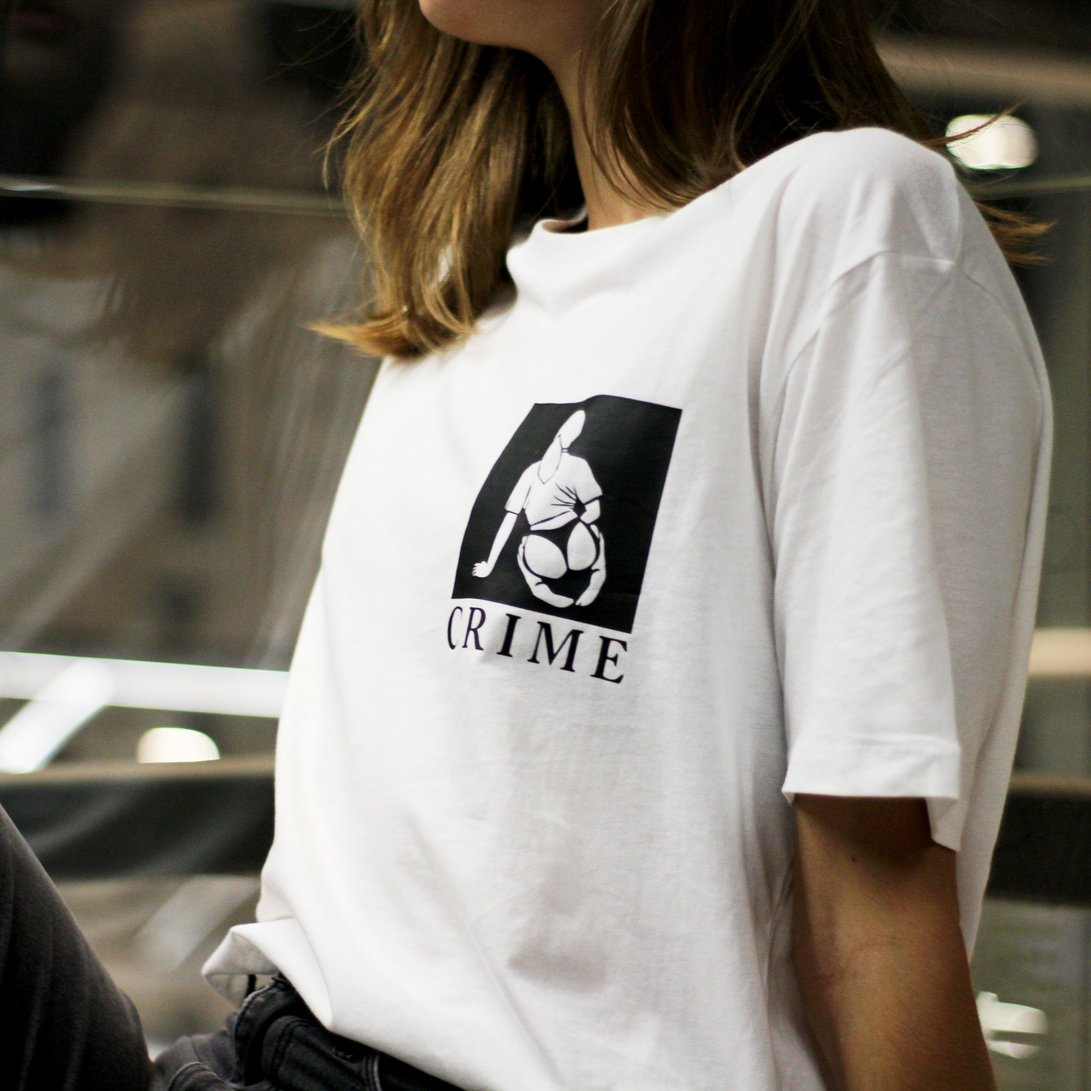
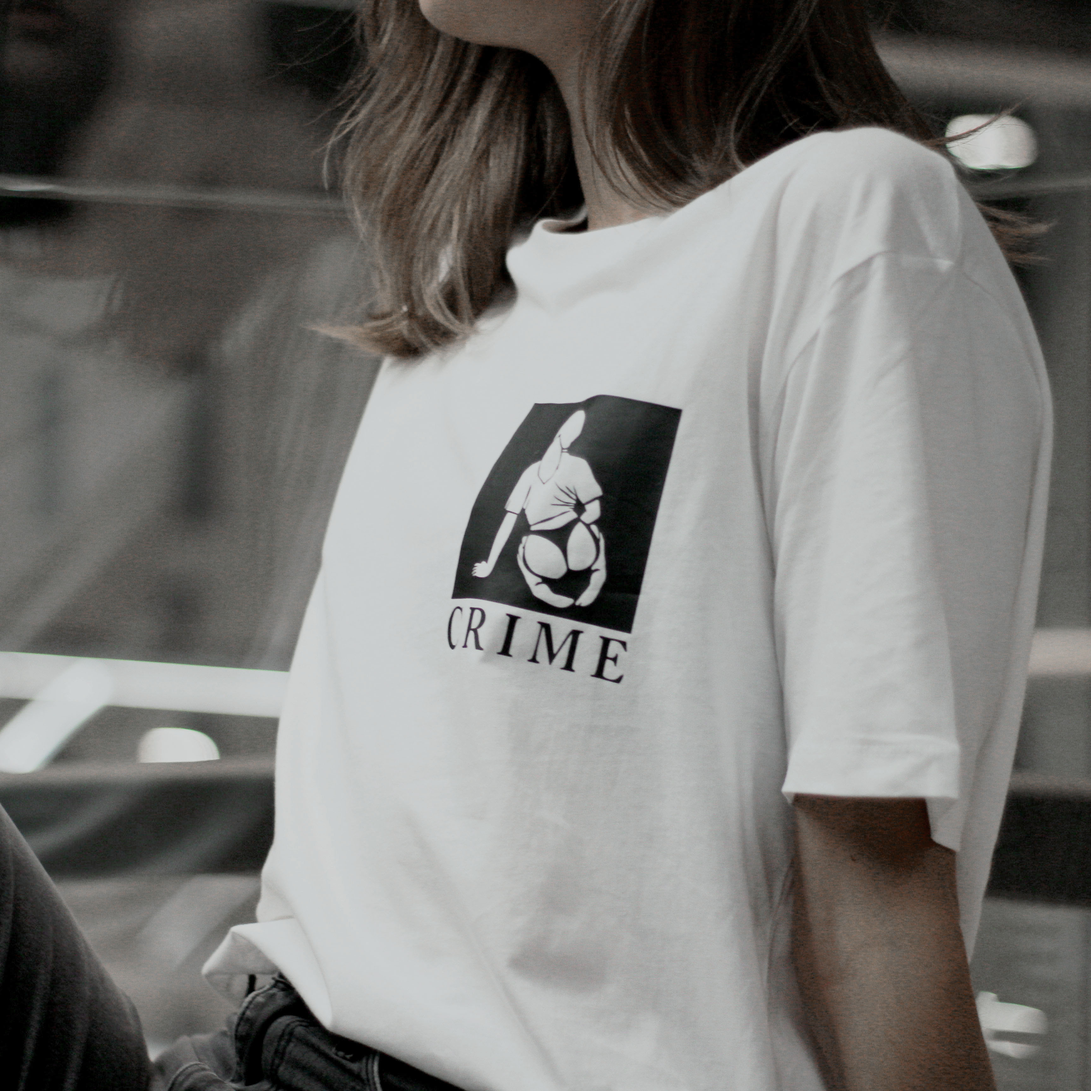
photos refreshed

diff --git a/style/style_item.css b/style/style_item.css
@@ -16,15 +16,7 @@ body {
     width: 200px;
 }
 
-.cart img {
-    float: left;
-    width: 35px;
-    margin-left: 25px;
-    margin-top: 20px;
-    margin-right: -60px;
-}
-
-.cart {
+.basket {
     position: fixed;
     right: 0;
     top: 0;
@@ -35,11 +27,32 @@ body {
     z-index: 8;
 }
 
-.cart span {
+.basket img {
+    float: left;
+    width: 35px;
+    margin-left: 25px;
+    margin-top: 20px;
+    margin-right: -60px;
+}
+
+.basket p {
+    position: relative;
+    width: 150px;
+    margin-left: 10px;
+}
+
+.basket span {
     position: relative;
     width: 150px;
     top: 30px;
     margin-right: 10px;
+}
+
+nav {
+    width: 70%;
+    margin-left: auto;
+    margin-right: auto;
+    text-align: center;
 }
 
 .navigation {
@@ -50,21 +63,14 @@ body {
     z-index: 7;
  }
 
-nav {
-    width: 70%;
-    margin-left: auto;
-    margin-right: auto;
-    text-align: center;
-}
-
-.nav {
+.navigationField {
     text-decoration: none;
     color: black;
     padding: 75px;
     line-height: 80px;
 }
 
-.nav:hover {
+.navigationField:hover {
     cursor: pointer;
 }
 
@@ -78,13 +84,7 @@ nav {
     z-index: 5;
 }
 
-.cart p {
-    position: relative;
-    width: 150px;
-    margin-left: 10px;
-}
-
-.pics {
+.containerPic {
     display: none;
 }
 
@@ -98,7 +98,7 @@ nav {
     height: 400px;
 }
 
-.left {
+.buttonLeft {
     position: relative;
     top: -260px;
     left: -40px;
@@ -109,21 +109,21 @@ nav {
     height: 40px;
 }
 
-.left p {
+.buttonLeft p {
     font-size: 40px;
     position: relative;
     left: 5px;
     bottom: 2px;
 }
 
-.right p {
+.buttonRight p {
     font-size: 40px;
     position: relative;
     left: 10px;
     bottom: 2px;
 }
 
-.right {
+.buttonRight {
     position: relative;
     top: -340px;
     left: 410px;
@@ -133,12 +133,11 @@ nav {
     height: 40px;
 }
 
-.left:hover, .right:hover {
+.buttonright:hover, .buttonRight:hover {
     cursor: pointer;
-
 }
 
-.text {
+.containerDescription {
     position: relative;
     width: 320px;
     height: 320px;
@@ -174,7 +173,7 @@ nav {
     cursor: default;
     margin-bottom: -5px;
 }
-.text h2 {
+.containerDescription h2 {
     font-size: 22px;
 }
 
@@ -226,9 +225,9 @@ section {
     width: 900px;
     height: 450px;
     background-color: black;
-    -webkit-box-shadow: 0px 38px 58px 3px rgba(0, 0, 0, 0.72);
-    -moz-box-shadow: 0px 38px 58px 3px rgba(0, 0, 0, 0.72);
-    box-shadow: 0px 38px 58px 3px rgba(0, 0, 0, 0.72);
+    -webkit-box-shadow: 0 38px 58px 3px rgba(0, 0, 0, 0.72);
+    -moz-box-shadow: 0 38px 58px 3px rgba(0, 0, 0, 0.72);
+    box-shadow: 0 38px 58px 3px rgba(0, 0, 0, 0.72);
     float: left;
     margin: 65px auto -400px 300px;
 }

diff --git a/index.html b/index.html
@@ -23,7 +23,7 @@
     <div class="basket">
         <img src="pics/shopping_cart.svg" alt=""/>
         <span> BASKET </span>
-        <span> 0 </span>
+        <span id="itemsNr"> 0 </span>
     </div>
 </nav>
 <main>
@@ -47,32 +47,44 @@
     <section>
         <div class="box">
             <img src="pics/pic1.jpg" alt="">
-            <a href="item.html"> HKOTFD MALE <br/><div class="boxCategory">T-SHIRT</div></a>
+            <a href="item.html"> HKOTFD MALE <br/>
+                <div class="boxCategory">T-SHIRT</div>
+            </a>
             <div class="filterCategory">tshirt</div>
         </div>
         <div class="box">
             <img src="pics/pic2.jpg" alt="">
-            <a href="item.html"> HKOTFD FEMALE <br/><div class="boxCategory">T-SHIRT</div></a>
+            <a href="item.html"> HKOTFD FEMALE <br/>
+                <div class="boxCategory">T-SHIRT</div>
+            </a>
             <div class="filterCategory">tshirt</div>
         </div>
         <div class="box">
             <img src="pics/pic3.jpg" alt="">
-            <a href="item.html"> NOW IS BETTER THAN NEVER <br/><div class="boxCategory">T-SHIRT</div></a>
+            <a href="item.html"> NOW IS BETTER THAN NEVER <br/>
+                <div class="boxCategory">T-SHIRT</div>
+            </a>
             <div class="filterCategory">tshirt</div>
         </div>
         <div class="box">
             <img src="pics/crime_nemek.jpg" alt="">
-            <a href=""> CRIME NEMEK STICKERS <br/><div class="boxCategory"> ACCESSORY</div></a>
+            <a href=""> CRIME NEMEK STICKERS <br/>
+                <div class="boxCategory"> ACCESSORY</div>
+            </a>
             <div class="filterCategory">accessory</div>
         </div>
         <div class="box">
             <img src="pics/pic4.jpg" alt="">
-            <a href=""> HKOTFD PRINT <br/><div class="boxCategory"> ACCESSORY</div></a>
+            <a href=""> HKOTFD PRINT <br/>
+                <div class="boxCategory"> ACCESSORY</div>
+            </a>
             <div class="filterCategory">accessory</div>
         </div>
         <div class="box">
             <img src="pics/pic5.jpg" alt="">
-            <a href=""> LMI PRINT <br/><div class="boxCategory"> ACCESSORY</div></a>
+            <a href=""> LMI PRINT <br/>
+                <div class="boxCategory"> ACCESSORY</div>
+            </a>
             <div class="filterCategory">accessory</div>
         </div>
     </section>

diff --git a/item.html b/item.html
@@ -10,12 +10,12 @@
     <div class="navbarStripe"></div>
     <img class="logo" src="pics/crime_caption.svg" alt=""/>
     <div class="navigation">
-        <a class="nav" href="home.html">SHOP</a>
-        <a class="nav" href="">CONTACT</a>
-        <a class="nav" href="">ABOUT</a>
-        <a class="nav" href="">FAQ</a>
+        <a class="navigationField" href="index.html">SHOP</a>
+        <a class="navigationField" href="">CONTACT</a>
+        <a class="navigationField" href="">ABOUT</a>
+        <a class="navigationField" href="">FAQ</a>
     </div>
-    <div class="cart">
+    <div class="basket">
         <img src="pics/shopping_cart.svg" alt=""/>
         <span> BASKET </span>
         <span id="itemsNr"> 0 </span>
@@ -24,14 +24,14 @@
 <main>
     <section>
         <div class="container">
-            <img class="pics" src="pics/pic1.jpg" style="width:100%" alt=""/>
-            <img class="pics" src="pics/pic3.jpg" style="width:100%" alt=""/>
-            <img class="pics" src="pics/pic2.jpg" style="width:100%" alt=""/>
-            <div id="buttonLeft" class="left"><p>&#60;</p></div>
-            <div id="buttonRight" class="right"><p>&#62;</p></div>
+            <img class="containerPic" src="pics/pic1.jpg" style="width:100%" alt=""/>
+            <img class="containerPic" src="pics/pic6.jpg" style="width:100%" alt=""/>
+            <img class="containerPic" src="pics/pic8.jpg" style="width:100%" alt=""/>
+            <div id="buttonLeft" class="buttonLeft"><p>&#60;</p></div>
+            <div id="buttonRight" class="buttonRight"><p>&#62;</p></div>
         </div>
         <div class="container">
-            <div class="text" id="buy">
+            <div class="containerDescription" id="buy">
                 <h1 class="caption"> HE KISSES ON THE FIRST DATE </h1>
                 <h2>T-SHIRT</h2>
                 <div class="row">
@@ -48,7 +48,7 @@
                     <div id="addToBasket" class="buyBtn">BUY IT</div>
                 </div>
             </div>
-            <div class="text" id="read">
+            <div class="containerDescription" id="read">
                 dupa dupa dupa dupa dupa
                 dupa dupa dupa dupa dupa
                 dupa dupa dupa dupa dupa

diff --git a/src/index.js b/src/index.js
@@ -1,15 +1,16 @@
 const back = document.getElementById("modalBackground");
 const tip = document.getElementById("modalTip");
-let tilesArray = document.getElementsByClassName("box");
+
 let picsArray = document.getElementsByClassName("boxPic");
+let contentArray = document.getElementsByClassName("box");
+
 let contentCategories = document.getElementsByClassName("filterCategory");
-let content = document.getElementsByClassName("box");
-let categories = ['tshirt', 'hoodie', 'cap', 'accessory', 'all'];
+const categories = ['tshirt', 'hoodie', 'cap', 'accessory', 'all'];
 let sideBarArray = document.getElementsByClassName("sidebarCategory");
 
-function openTile() {
-    for (let i = 0; i < tilesArray.length; i++) {
-        tilesArray[i].addEventListener("click", function () {
+function openBox() {
+    for (let i = 0; i < contentArray.length; i++) {
+        contentArray[i].addEventListener("click", function () {
             setBoxDisplay("inline-block", i);
         });
         picsArray[i].addEventListener("click", function () {
@@ -34,10 +35,10 @@ document.getElementById("nemekAnimation").addEventListener("click", function () 
 });
 
 function filter(string) {
-    for (let i = 0; i < content.length; i++) {
+    for (let i = 0; i < contentArray.length; i++) {
         setDisplay('inline-block', i);
     }
-    for (let i = 0; i < content.length; i++) {
+    for (let i = 0; i < contentArray.length; i++) {
         if (string !== 'all' && contentCategories[i].innerText !== string) {
             setDisplay('none', i);
         }
@@ -53,11 +54,11 @@ function filterListen() {
 }
 
 function setDisplay(string, i) {
-    content[i].style.display = string;
+    contentArray[i].style.display = string;
 }
 
 function main() {
-    openTile();
+    openBox();
     filterListen();
 }
 

diff --git a/src/item_script.js b/src/item_script.js
@@ -1,5 +1,6 @@
 let slideIndex = 1;
-let text = document.getElementsByClassName("text");
+let text = document.getElementsByClassName("containerDescription");
+let pics = document.getElementsByClassName("containerPic");
 let sizeArray = document.getElementsByClassName("size");
 let quantityArray = [4, 7, 9, 3];
 
@@ -12,17 +13,16 @@ function decDivs() {
 }
 
 function showDivs(n) {
-    let x = document.getElementsByClassName("pics");
-    if (n > x.length) {
+    if (n > pics.length) {
         slideIndex = 1;
     }
     if (n < 1) {
-        slideIndex = x.length;
+        slideIndex = pics.length;
     }
-    for (let i = 0; i < x.length; i++) {
-        x[i].style.display = "none";
+    for (let i = 0; i < pics.length; i++) {
+        pics[i].style.display = "none";
     }
-    x[slideIndex - 1].style.display = "block";
+    pics[slideIndex - 1].style.display = "block";
 }
 
 function chooseSize() {
